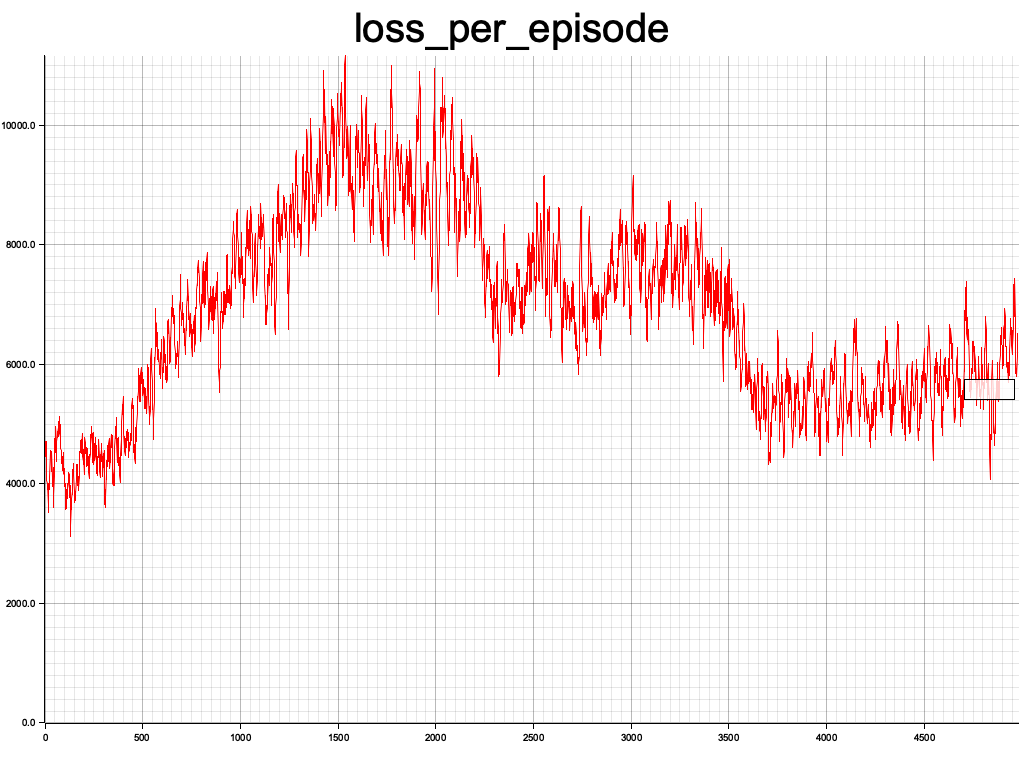
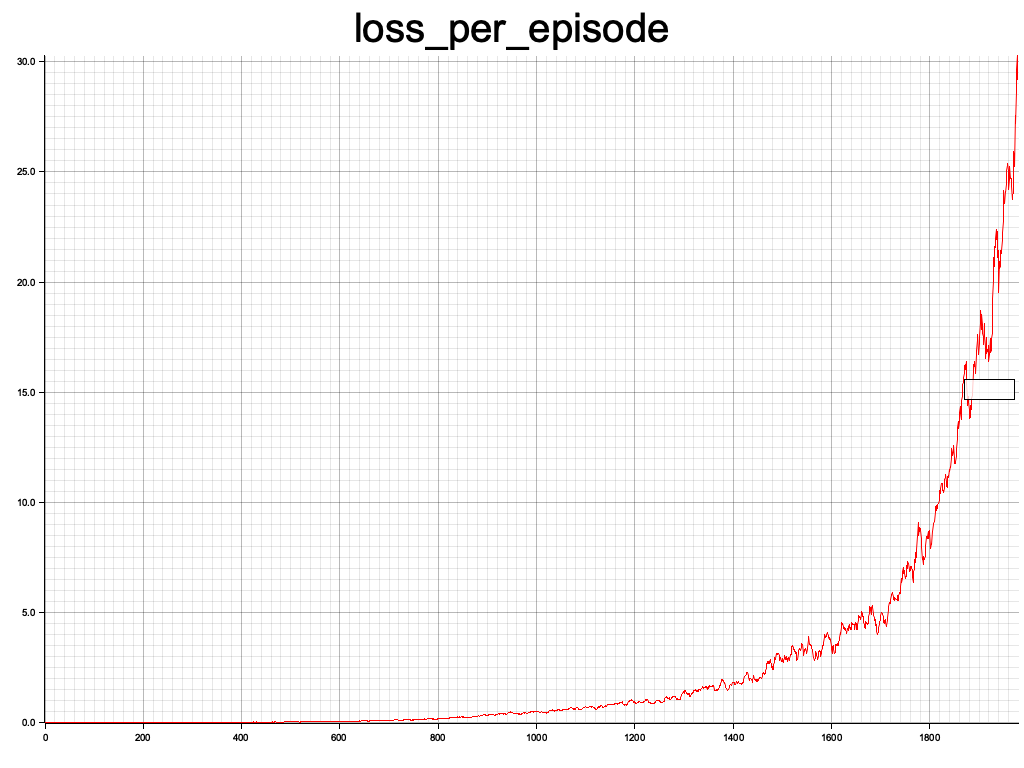
More improvements, but no cigar

Changed region(s): [[0.0, 0.0625, 1.0, 0.9688]]

diff --git a/src/ai.rs b/src/ai.rs
@@ -76,7 +76,7 @@ pub struct TrainingConfig {
     #[config(default = 2048)]
     pub replay_mem_capacity: usize,
 
-    #[config(default = 5000)]
+    #[config(default = 2000)]
     pub num_episodes: usize,
 
     #[config(default = 1.0)]
@@ -196,9 +196,41 @@ pub fn train<B: AutodiffBackend>(device: B::Device) {
             };
 
             let board_state = emulator.get_category_vec();
-            let move_ = emulator.click(action / constants::COLS, action % constants::COLS);
+            let row = action / constants::COLS;
+            let col = action % constants::COLS;
 
-            let reward = get_reward(move_, &emulator);
+            let mut reward = 0.;
+
+            // Check if click was nearby opened square or not, to discourage clicking on random
+            // squares
+            let mut uninformed_click = true;
+            for row_delta in -1..=1 {
+                for col_delta in -1..=1 {
+                    if row_delta == 0 && col_delta == 0
+                        || row_delta > row as i32
+                        || col_delta > col as i32
+                    {
+                        continue;
+                    }
+
+                    if let Some(Some(opened_square)) = emulator
+                        .opened
+                        .get((row as i32 - row_delta) as usize)
+                        .map(|row| row.get((col as i32 - col_delta) as usize))
+                    {
+                        if *opened_square {
+                            uninformed_click = false;
+                        }
+                    }
+                }
+            }
+            if !uninformed_click {
+                reward = 1.;
+            }
+
+            let move_ = emulator.click(row, col);
+
+            reward += get_reward(move_, &emulator);
             rewards_per_episode[episode] += reward;
 
             let terminated = emulator.is_board_completed() || matches!(move_, game::Square::Mine);
@@ -266,8 +298,11 @@ pub fn train<B: AutodiffBackend>(device: B::Device) {
             let current_q_tensor: Tensor<B, 2> = Tensor::stack(current_q_list, 0);
             let target_q_tensor: Tensor<B, 2> = Tensor::stack(target_q_list, 0);
 
-            let loss =
-                MseLoss::new().forward(current_q_tensor, target_q_tensor, nn::loss::Reduction::Sum);
+            let loss = MseLoss::new().forward(
+                current_q_tensor,
+                target_q_tensor,
+                nn::loss::Reduction::Mean,
+            );
 
             loss_per_episode.push(loss.clone().into_scalar().elem());
 
@@ -355,10 +390,7 @@ fn plot_vec_with_title(title: String, y_vals: Vec<f32>) -> Result<(), Box<dyn st
 
 fn get_reward(prev_move: game::Square, emulator: &game::Minesweeper) -> f32 {
     if matches!(prev_move, game::Square::Mine) {
-        return -20.;
-    }
-    if emulator.is_board_completed() {
-        return 10.;
+        return -1.;
     }
 
     1.
